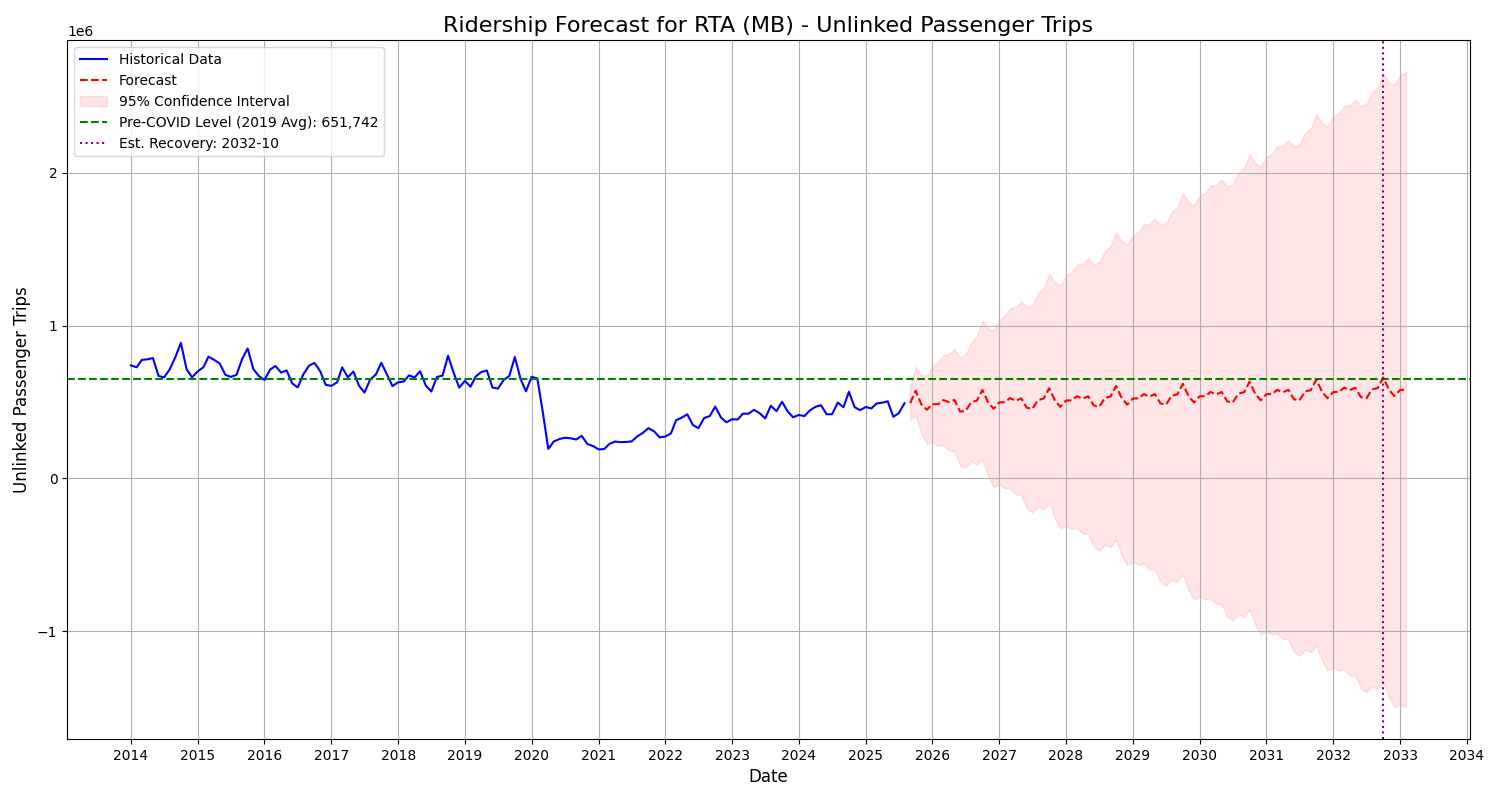
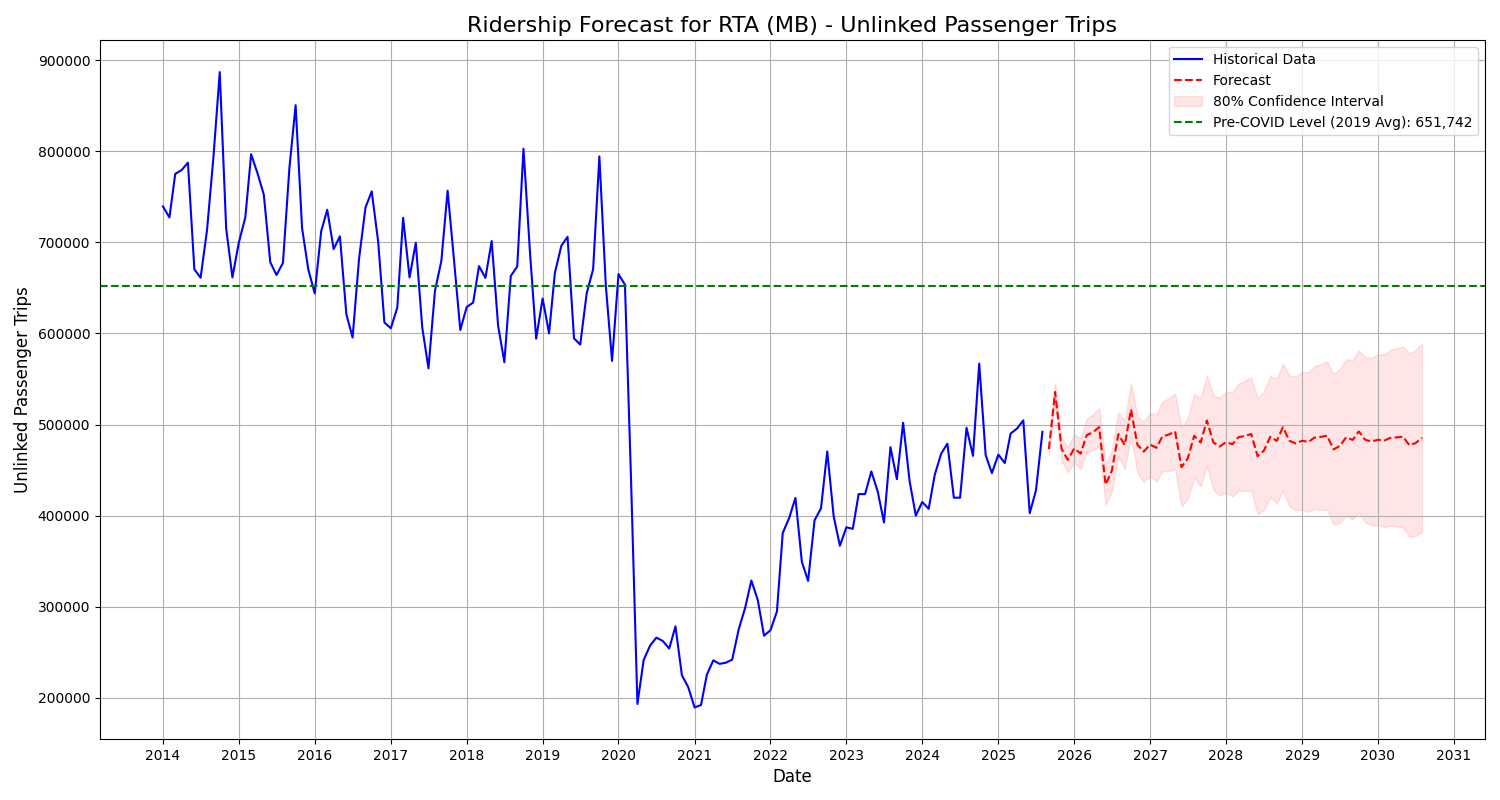
Changed the ARIMA model in order to reduce the width of the condifence interval. Used arima model in order to not overfit.

diff --git a/src/forecasting.py b/src/forecasting.py
@@ -2,10 +2,14 @@
 # Description: Core functions for SARIMA modeling and forecasting.
 
 import pmdarima as pm
+from pmdarima import ARIMA
 import pandas as pd
 
 
 def calculate_pre_covid_level(df_ts, metric_name, year):
+    """
+    Calculates the average pre-COVID level from the given year.
+    """
     try:
         pre_covid_data = df_ts.loc[f'{year}-01-01':f'{year}-12-31']
 
@@ -22,45 +26,76 @@ def calculate_pre_covid_level(df_ts, metric_name, year):
         return None
 
 
-def run_sarima_forecast(df_ts, metric_name, n_periods, confidence_level):
+def run_sarima_forecast(df_ts, metric_name, n_periods, train_start_date, confidence_level):
     """
-    Uses auto_arima to fit a SARIMA model
+    Finds the best SARIMA model using auto_arima and returns the forecast.
+    Trains *only* on data from train_start_date onwards.
     """
-    print("\nFinding best SARIMA model using auto_arima...")
-    auto_model = pm.auto_arima(
-        df_ts[metric_name],
-        start_p=1, start_q=1,
-        test='adf',  # Use ADF test to find 'd'
-        max_p=3, max_q=3,
-        m=12,  # 12 months in a year
-        start_P=0,
-        seasonal=True,  # Account for seasonality
-        d=None,  # Let the test find 'd'
-        D=1,  # Default seasonal differencing
-        trace=True,
-        error_action='ignore',
-        suppress_warnings=True,
-        stepwise=True
-    )
 
-    print("\n--- Model Summary ---")
-    print(auto_model.summary())
+    print(f"\nFinding best SARIMA model using data from {train_start_date} onwards...")
 
+    try:
+        train_series = df_ts.loc[train_start_date:][metric_name]
+        if train_series.empty:
+            print(f"Error: No training data found after {train_start_date}.")
+            return None, None
+
+        print(f"Training data shape: {train_series.shape[0]} rows.")
+
+    except Exception as e:
+        print(f"Error selecting training data: {e}")
+        return None, None
+
+    try:
+        # --- Automatically finding the best model ---
+        print("Searching for best model (this may take a moment)...")
+
+        # auto_arima will find the best (p,d,q) and (P,D,Q,m)
+        auto_model = pm.auto_arima(
+            train_series,
+            start_p=1, start_q=1,
+            max_p=3, max_q=3,  # Keep p and q low to prevent overfitting
+            m=12,  # 12 months in a year
+            seasonal=True,  # Yes, look for seasonality
+
+            # --- THESE ARE THE NEW "GUARDRAIL" CONSTRAINTS ---
+            d=1,  # FORCE d=1 (linear trend). Prevents the nosedive.
+            with_intercept=True,  # FORCE a "drift" term. This models the steady upward recovery.
+            D=0,  # FORCE D=0. Prevents unstable seasonal differencing.
+            # --- End of new constraints ---
+
+            trace=True,  # Print models as it finds them
+            error_action='ignore',
+            suppress_warnings=True,
+            stepwise=True
+        )
+
+        # Note: auto_arima returns a *fitted* model,
+        # so you do not need to call .fit() separately.
+
+        print("\n--- Best Model Found ---")
+        print(auto_model.summary())
+
+        # --- End of new auto_arima section ---
+
+    except Exception as e:
+        print(f"Error during auto_arima model fitting: {e}")
+        return None, None
+
+    # Generate forecast
     print(f"\nGenerating forecast for {n_periods} months...")
     forecast, conf_int = auto_model.predict(
         n_periods=n_periods,
         return_conf_int=True,
-        alpha=confidence_level
+        alpha=(1 - confidence_level)  # Note: auto_arima uses alpha, not 1-alpha
     )
 
-    # Create a date range for the forecast
     forecast_index = pd.date_range(
-        start=df_ts.index[-1] + pd.DateOffset(months=1),
+        start=train_series.index[-1] + pd.DateOffset(months=1),
         periods=n_periods,
         freq='MS'
     )
 
-    # Combine forecast and confidence intervals into DataFrames
     forecast_df = pd.DataFrame(forecast, index=forecast_index, columns=['Forecast'])
     conf_int_df = pd.DataFrame(conf_int,
                                index=forecast_index,
@@ -69,14 +104,13 @@ def run_sarima_forecast(df_ts, metric_name, n_periods, confidence_level):
     return forecast_df, conf_int_df
 
 
-def find_recovery_date(forecast_df, pre_covid_level, n_periods):
+def find_recovery_date(df_ts, forecast_df, pre_covid_level, n_periods, metric_name):
     """
     Finds the first date the forecast crosses the pre-COVID level.
     """
     if pre_covid_level is None:
         return None
 
-    # Find all dates where the forecast is *above* the target
     recovery_dates = forecast_df[forecast_df['Forecast'] > pre_covid_level]
 
     if not recovery_dates.empty:
@@ -86,7 +120,16 @@ def find_recovery_date(forecast_df, pre_covid_level, n_periods):
         print(f"*** ***")
         return recovery_date
     else:
+        historical_recovery = df_ts[df_ts[metric_name] > pre_covid_level]
+        if not historical_recovery.empty:
+            print(f"\n*** NOTE ***")
+            print(
+                f"Historical data already crossed the pre-COVID level (e.g., on {historical_recovery.index[-1].strftime('%B %Y')}).")
+            print(f"The *forecast* does not predict a *sustained* return.")
+            print(f"*** ***")
+            return None
+
         print(f"\n*** FORECAST ***")
-        print(f"Model does NOT predict a return to pre-COVID levels within the next {n_periods} months.")
+        print(f"Model does NOT predict a return to pre-COVID levels within the {n_periods}-month forecast.")
         print(f"*** ***")
         return None

diff --git a/src/main.py b/src/main.py
@@ -1,5 +1,7 @@
 # --- main.py ---
 # Description: Main entry point for the RTA forecast analysis.
+#
+# *** CORRECTED to fix TypeError ***
 
 import config as cfg
 import data_loader as dl
@@ -14,12 +16,12 @@ def main():
     # 1. Load and Prepare Data
     df_agency = dl.load_and_prepare_data(cfg.DATA_FILE, cfg.AGENCY_NAME)
     if df_agency is None:
-        sys.exit("Failed to load data. Exiting.")
+        sys.exit("Error: Failed to load data. Exiting.")
 
     # 2. Get the specific time series for forecasting
     df_ts = dl.get_timeseries(df_agency, cfg.MODE_TO_ANALYZE, cfg.METRIC_TO_ANALYZE)
     if df_ts is None:
-        sys.exit("Failed to create time series. Exiting.")
+        sys.exit("Error: Failed to create time series. Exiting.")
 
     # 3. Calculate Pre-COVID Baseline
     pre_covid_level = fc.calculate_pre_covid_level(df_ts, cfg.METRIC_TO_ANALYZE, cfg.PRE_COVID_YEAR)
@@ -29,11 +31,21 @@ def main():
         df_ts,
         cfg.METRIC_TO_ANALYZE,
         cfg.FORECAST_PERIOD,
+        cfg.TRAIN_START_DATE,
         cfg.CONFIDENCE_LEVEL
     )
 
+    if forecast_df is None:
+        sys.exit("Error: Failed to generate forecast. Exiting.")
+
     # 5. Find Recovery Date
-    recovery_date = fc.find_recovery_date(forecast_df, pre_covid_level, cfg.FORECAST_PERIOD)
+    recovery_date = fc.find_recovery_date(
+        df_ts,
+        forecast_df,
+        pre_covid_level,
+        cfg.FORECAST_PERIOD,
+        cfg.METRIC_TO_ANALYZE
+    )
 
     # 6. Plot Forecast
     pl.plot_forecast(
@@ -45,7 +57,8 @@ def main():
         cfg.MODE_TO_ANALYZE,
         cfg.METRIC_TO_ANALYZE,
         cfg.OUTPUT_DIR,
-        cfg.PRE_COVID_YEAR
+        cfg.PRE_COVID_YEAR,
+        cfg.CONFIDENCE_LEVEL
     )
 
     # 7. Generate Secondary Plots

diff --git a/src/plotting.py b/src/plotting.py
@@ -8,7 +8,7 @@ from tabulate import tabulate
 
 
 def plot_forecast(df_ts, forecast_df, conf_int_df, pre_covid_level,
-                  recovery_date, mode, metric, output_dir, baseline_year):
+                  recovery_date, mode, metric, output_dir, baseline_year, confidence_level):
     """
     Generates and saves the main forecast plot.
     """
@@ -21,13 +21,22 @@ def plot_forecast(df_ts, forecast_df, conf_int_df, pre_covid_level,
     # Plot forecast
     ax.plot(forecast_df.index, forecast_df['Forecast'], label='Forecast', color='red', linestyle='--')
 
+    # --- This section now uses the confidence_level variable ---
+
+    # Calculate the percentage
+    conf_percent = (1 - confidence_level) * 100
+
+    # Create the dynamic label
+    plot_label = f'{conf_percent:.0f}% Confidence Interval'
+
     # Plot confidence interval
     ax.fill_between(
         conf_int_df.index,
         conf_int_df['Lower CI'],
         conf_int_df['Upper CI'],
-        color='red', alpha=0.1, label='95% Confidence Interval'
+        color='red', alpha=0.1, label=plot_label  # <-- Uses the new label
     )
+    # --- End of modified section ---
 
     # Plot Pre-COVID Level
     if pre_covid_level is not None:

diff --git a/src/data_loader.py b/src/data_loader.py
@@ -22,11 +22,13 @@ def load_and_prepare_data(file_path, agency_name):
         print(f"Error: No data found for agency '{agency_name}'")
         return None
 
+    # Create a proper 'Date' column
     df_agency['Date'] = pd.to_datetime(
         df_agency['Year'].astype(str) + '-' + df_agency['Month'].astype(str),
         errors='coerce'
     )
 
+    # Drop any rows where the date could not be created
     df_agency.dropna(subset=['Date'], inplace=True)
 
     print(f"Successfully loaded data for {agency_name}.")
@@ -47,6 +49,7 @@ def get_timeseries(df_agency, mode, metric):
         print(f"Error: No data found for Mode '{mode}' and Metric '{metric}'.")
         return None
 
+    # Prepare the time series data
     df_ts = df_mode.groupby('Date')[metric].sum().reset_index()
     df_ts = df_ts.set_index('Date')
     df_ts.index.freq = 'MS'  # 'MS' = Month Start frequency

diff --git a/src/config.py b/src/config.py
@@ -12,9 +12,9 @@ METRIC_TO_ANALYZE = 'Unlinked Passenger Trips'
 PRE_COVID_YEAR = 2019
 
 # --- Model & Forecast Parameters ---
-FORECAST_PERIOD = 90
-CONFIDENCE_LEVEL = 0.05
+FORECAST_PERIOD = 60
+CONFIDENCE_LEVEL = 0.20
+TRAIN_START_DATE = '2021-01-01'
 
 # --- Secondary Plot Parameters ---
-# Metrics to plot in the original analysis loop
 SECONDARY_METRICS = ['Vehicle Revenue Miles', 'VOMS']
